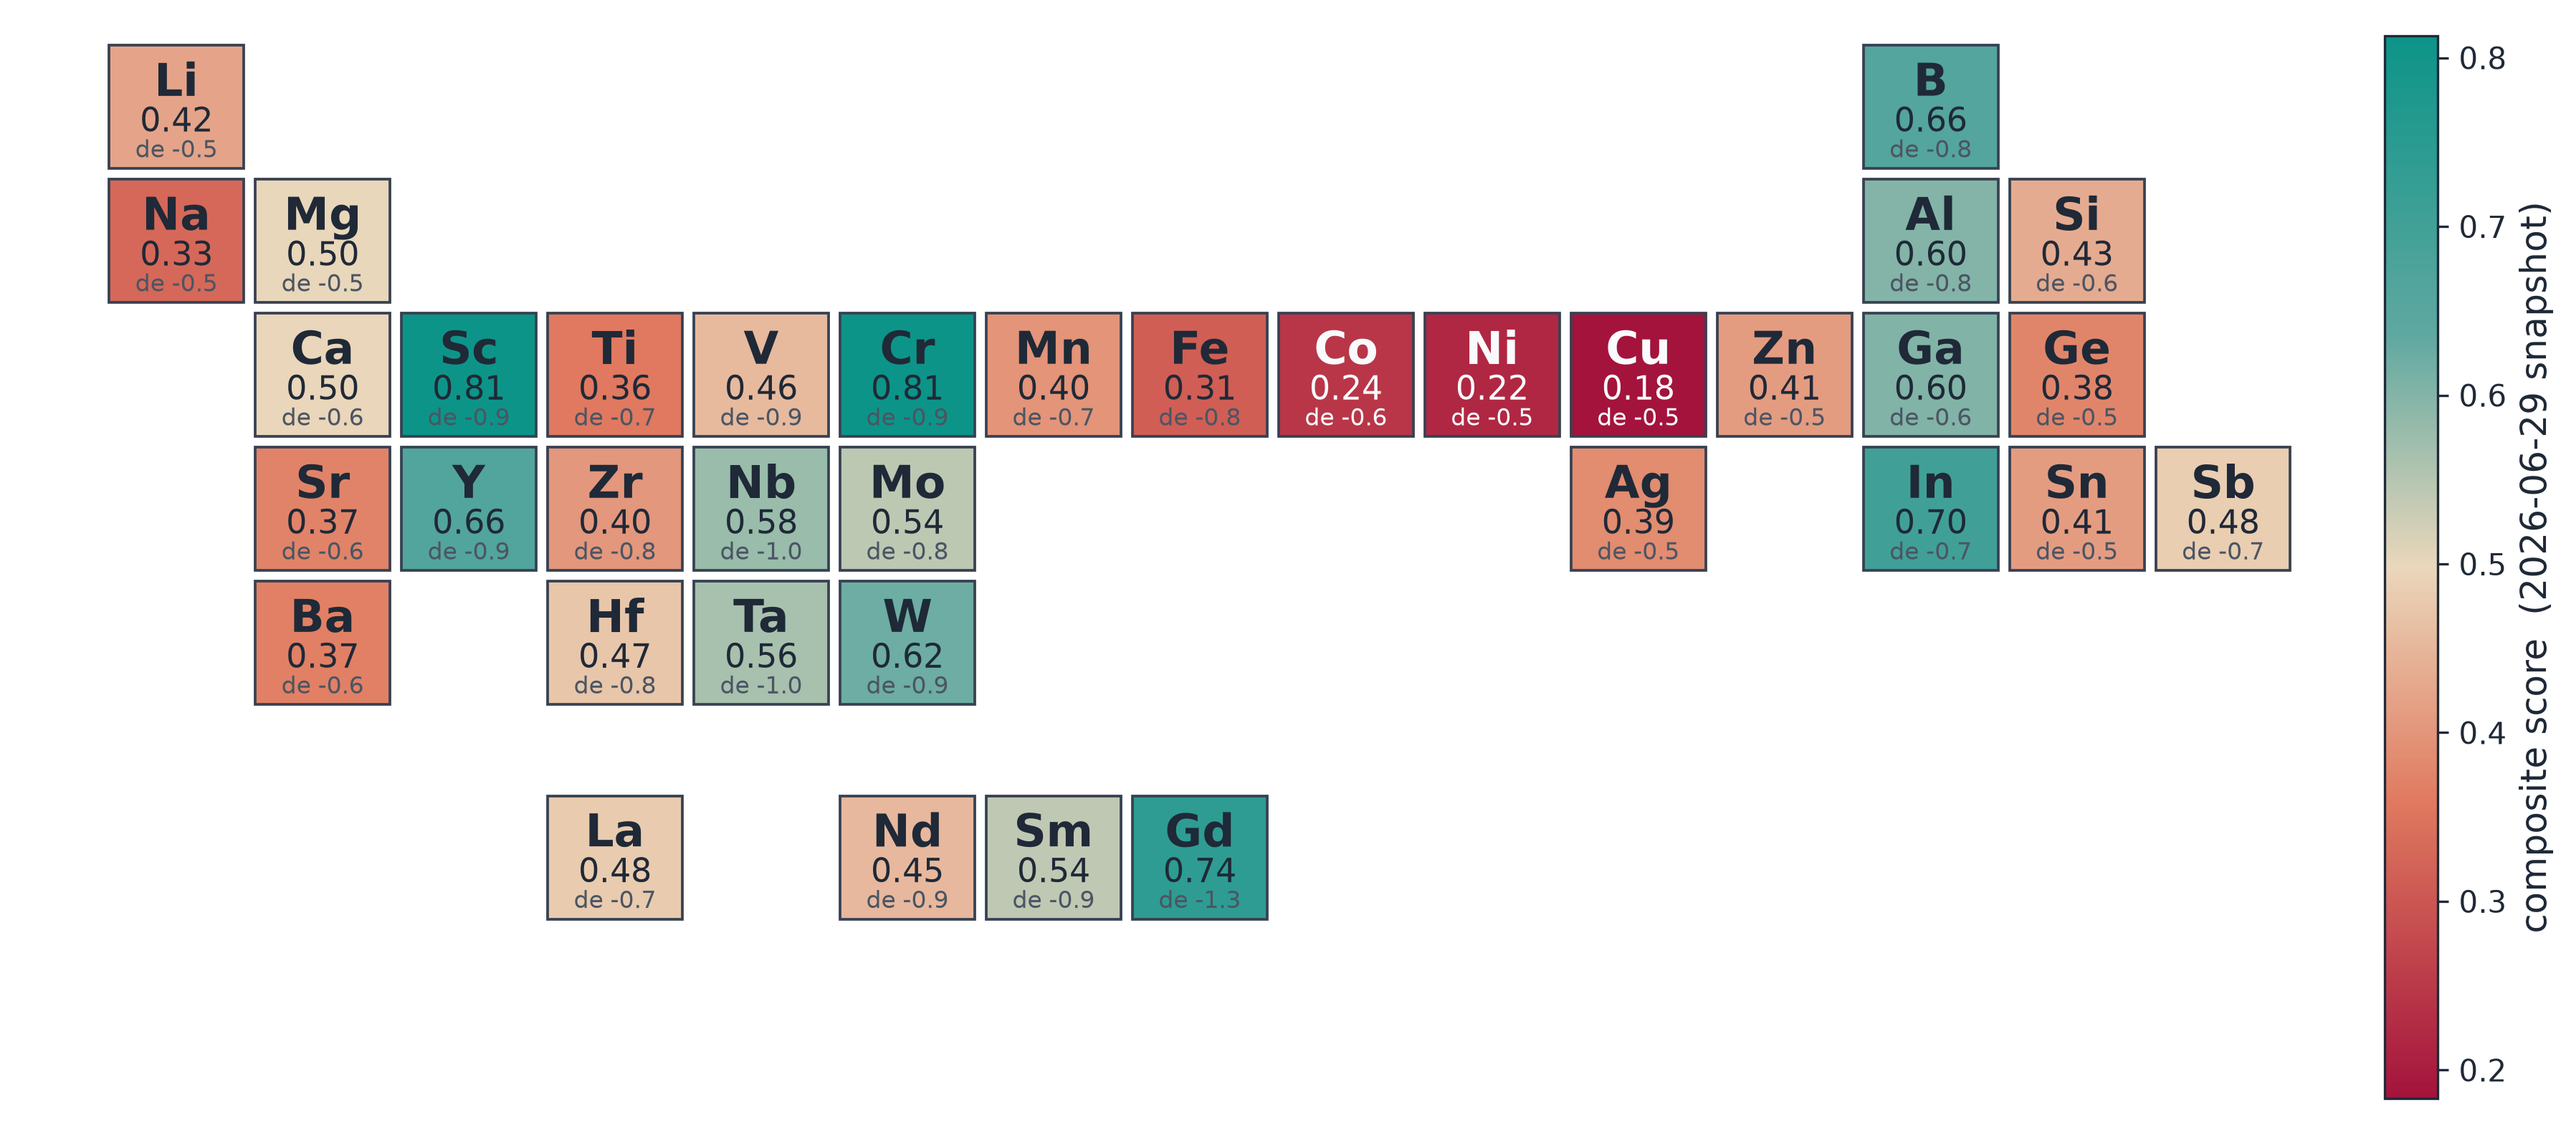
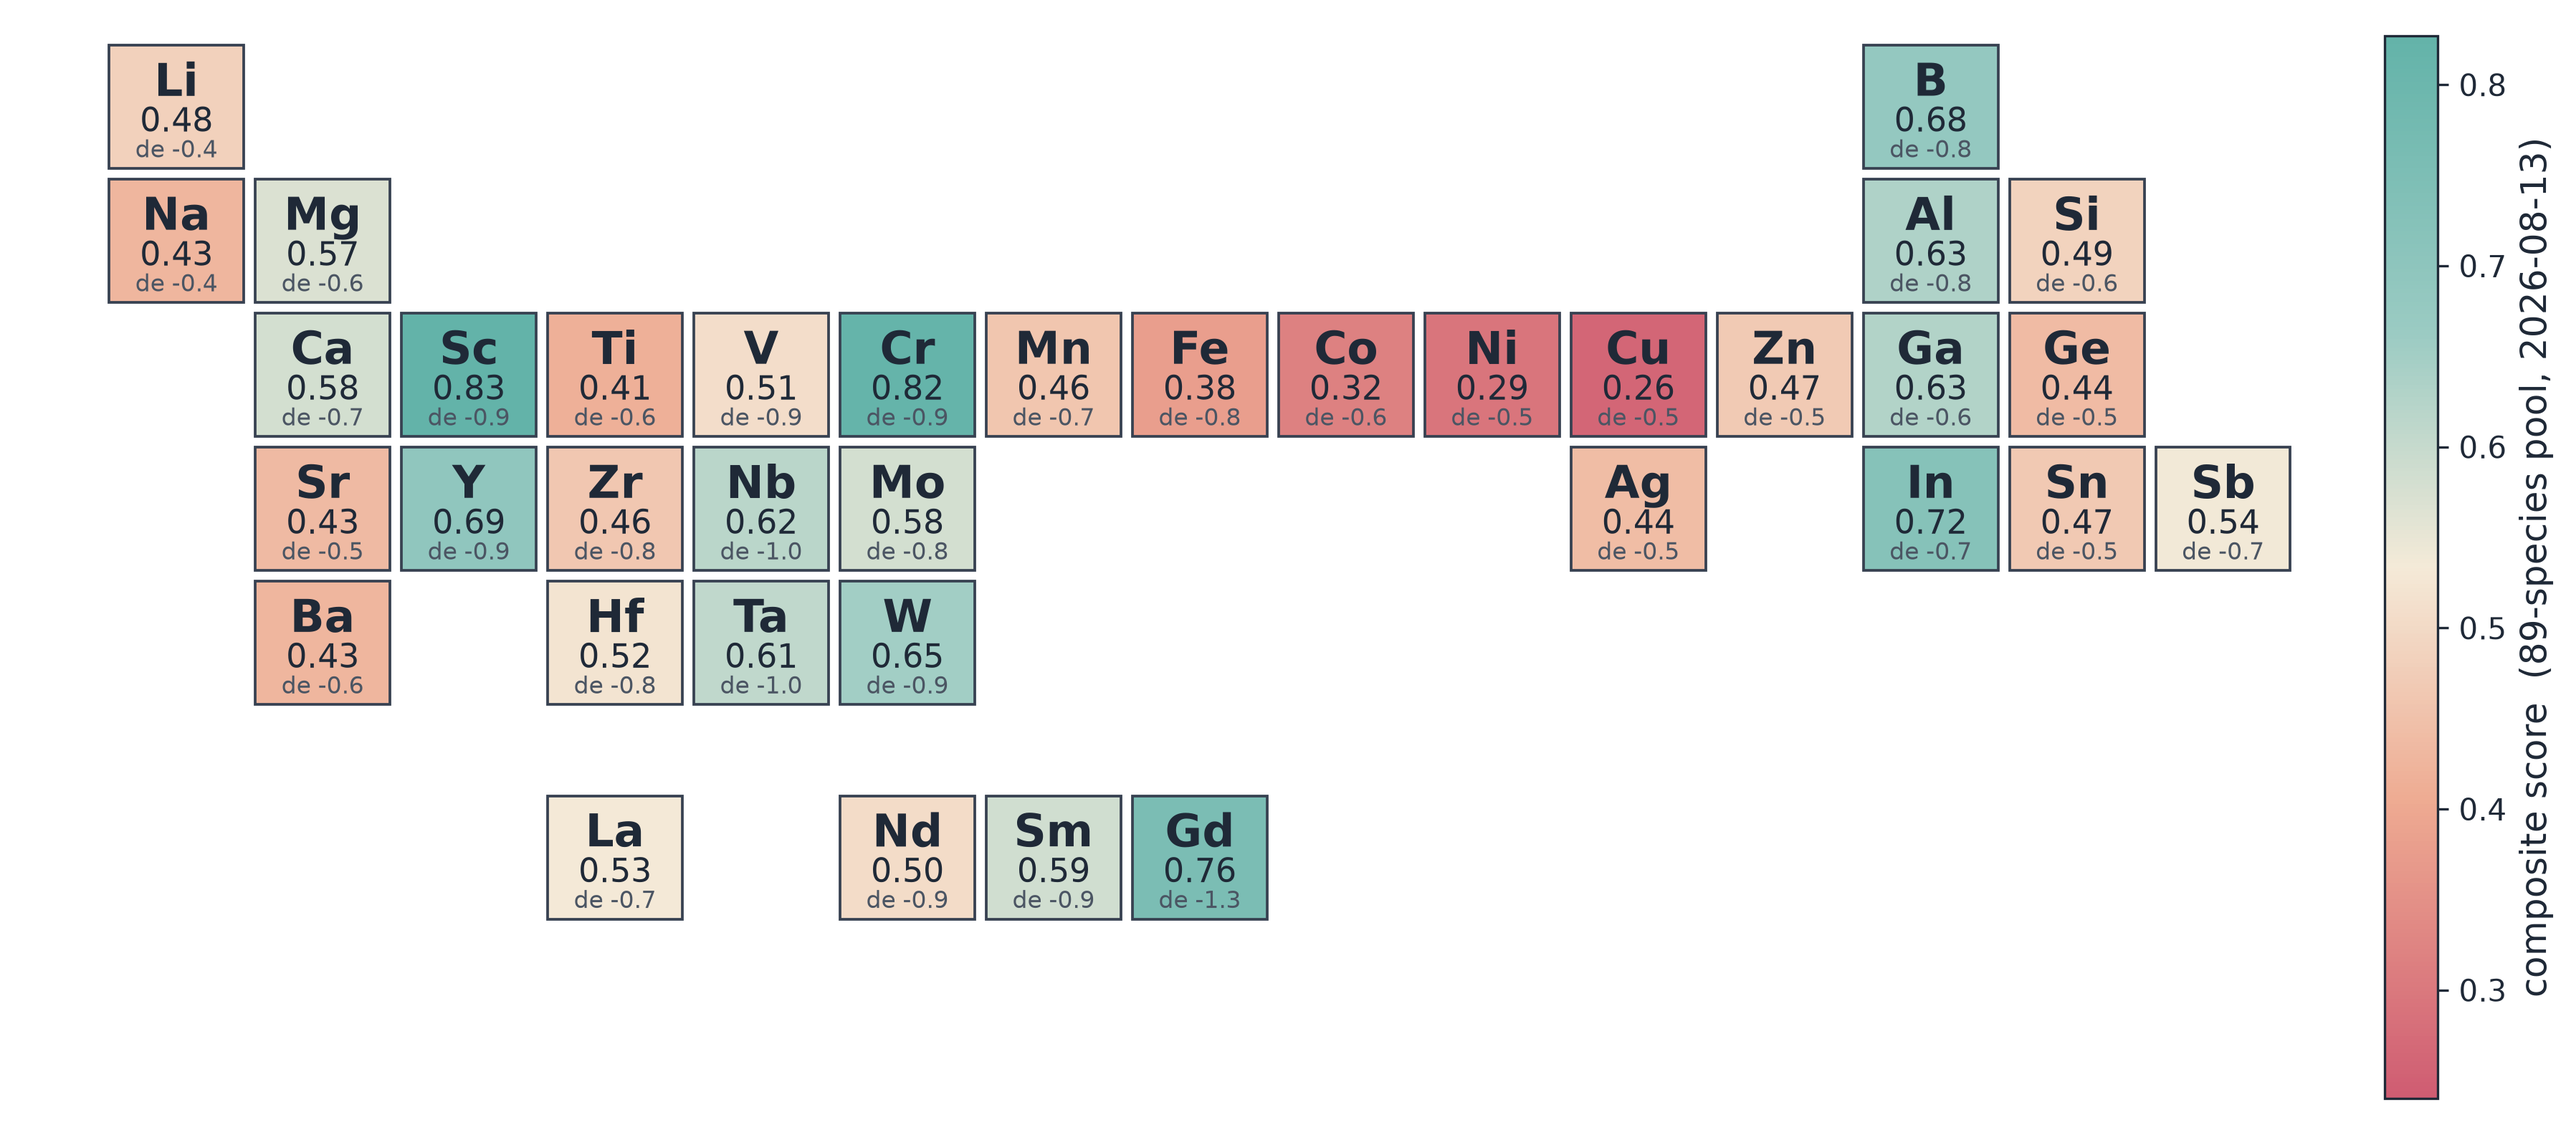
figures+seminar: 주기율표를 89종 풀로 교체 + 팔레트 연하게
풀 교체 근거는 '패턴이 안 바뀐다'는 실측이다:
  원소 36개 동일 · 상위10 집합 동일 · 최하위10 집합 동일
  Mn Fe Co Ni Cu 가 두 풀 모두 최하위12 (대본이 'red' 라 부르는 블록)
  점수는 평균 +0.050 오르지만 순위 변화가 아니라 min-max 모집단 확대에 따른 수평 이동
v2 는 v1 의 완전한 상위집합(v1 전용 종 0, +42종).
AlI3 는 두 풀 모두 없다 - v2 만의 결함이 아니라 캠페인 공백.

- fig_periodic(pool=) 신설, 기본 v2. v1 은 대조용으로 계속 그릴 수 있다
- selftest +5: 두 풀의 원소집합/최하위10/후기전이금속 블록 일치를 검사한다.
  깨지면 'read the block pattern, not the order' 캡션이 거짓이 되므로 그림보다 먼저 막는다
- 팔레트를 한 단계 연하게 (1저자 요청) - 채도가 내려가 모든 칸에서 INK 가 읽힌다
- 대본 8장: 캡션을 89종/2026-08-13 으로, '승인된 순위 없음' 은 유지.
  질문 대비 말로만 항목 추가 (풀 두 배로 늘려도 상하위 집합 그대로)

Claude-Session: https://claude.ai/code/session_01L44TWYrHkcm4PH5ihWSSCw

diff --git a/tools/figures/plot_seminar_2026_08.py b/tools/figures/plot_seminar_2026_08.py
@@ -93,19 +93,36 @@ GROUP_OF = {"Li":"alkali","Na":"alkali","Ag":"TM","Mg":"alk.earth","Ca":"alk.ear
             "La":"lanthanide","Nd":"lanthanide","Sm":"lanthanide","Gd":"lanthanide"}
 
 
-def fig_periodic():
+#: 점수 풀 — (csv, 컬러바 라벨). v2 가 기본이다 (2026-08-18).
+POOLS = {
+    "v2": ("cascade_v23_ranked_v2.csv", "composite score  (89-species pool, 2026-08-13)"),
+    "v1": ("cascade_v23_ranked.csv", "composite score  (47-species pool, 2026-06-29)"),
+}
+
+
+def fig_periodic(pool="v2"):
     """주기율표 성능 지도 — 원본(plot_cascade_summary.py) 양식을 발표용으로 다시 그린다.
 
-    ⚠ 색·숫자는 **2026-06-29 취합 스냅샷의 composite score** 다. 승인된 current ranking 은
-      0종이므로 순위로 인용하면 안 된다 — 슬라이드 캡션이 그 단서를 진다.
+    ⚠ **순위로 인용하면 안 된다.** 승인된 current ranking 은 0종이다 (감사표
+      db/properties/cascade_audit_artifact_status.csv: v1=superseded,
+      v2=recovered_diagnostic). 슬라이드 캡션이 그 단서를 진다.
+
+    풀 선택 (2026-08-18)
+      기본을 **v2(89종)** 로 바꿨다. v2 는 v1 의 **완전한 상위집합**이고(v1 전용 종 0),
+      원소 36개가 같으며, 두 풀의 블록 패턴이 일치한다 — selftest 가 그걸 검사한다.
+      v1 대비 점수가 평균 +0.050 오르는데, 이는 순위 변화가 아니라 min-max 정규화
+      모집단이 커진 데 따른 **수평 이동**이다.
+      ⚠ AlI3 는 **두 풀 모두** 없다 — v2 만의 결함이 아니라 캠페인 공백이다.
+
     ⚠ 이 함수의 ax.text 는 **칸 라벨**(원소 기호·숫자)이라 '그림 안 글씨 금지' 규칙의 예외다.
       문장은 넣지 않는다.
     """
+    csv_name, cb_label = POOLS[pool]
     import csv as _csv
     from matplotlib.patches import Rectangle as _R
     import matplotlib.pyplot as _plt
     D = []
-    for r in _read(os.path.join(DB, "cascade_v23_ranked.csv")):
+    for r in _read(os.path.join(DB, csv_name)):
         try:
             D.append(dict(dop=r["dopant"], comp=float(r["score"]),
                           de=float(r["de"]) if r.get("de") else 0.0))
@@ -148,10 +165,12 @@ def fig_periodic():
     ax.set_xlim(0.4, 16.4); ax.set_ylim(-8.05, 0.10); ax.axis("off")
     sm = _plt.cm.ScalarMappable(cmap=cmap, norm=_plt.Normalize(lo, hi))
     cb = fig.colorbar(sm, ax=ax, fraction=0.022, pad=0.01)
-    cb.set_label("composite score  (2026-06-29 snapshot)", fontsize=12)
+    cb.set_label(cb_label, fontsize=12)
     cb.ax.tick_params(labelsize=10)
     # ⚠ 파일명에 **빌드 날짜**를 박되 컬러바 라벨은 **데이터 날짜**를 유지한다.
     #   둘은 다른 것이고, 섞으면 6월 점수가 8월 결과로 읽힌다 (오늘 β 0.77 사고와 같은 종류).
+    if pool != "v2":
+        return _save(fig, f"roster_periodic_table_pool_{pool}.png")
     _save(fig, "roster_periodic_table_build_2026-08-18.png")
     return _save(fig, "roster_periodic_table.png")
 
@@ -438,6 +457,39 @@ def selftest():
     chk(f"음성: 원본 데이터 결측 0건 ({miss})", not miss)
     # 음성 ④ — 주기율표에 없는 원소를 그리려 하면 안 된다
     chk("음성: PT 좌표 중복 없음", len(set(PT.values())) == len(PT))
+    # ★ 슬라이드가 기대는 주장 — "풀을 두 배로 키워도 **블록 패턴**은 안 바뀐다".
+    #   캡션이 "read the block pattern, not the order" 라고 말하는 근거가 이것이다.
+    #   풀을 바꿨는데 이게 깨지면 그 캡션이 거짓말이 되므로 여기서 막는다 (2026-08-18).
+    import csv as _c, io as _io, re as _re
+    _AN = {"O", "S", "F", "Cl", "Br", "I", "N"}
+
+    def _best(fn):
+        try:
+            _rows = [l for l in open(os.path.join(DB, fn)) if not l.startswith("#")]
+        except OSError:
+            return {}
+        b = {}
+        for x in _c.DictReader(_io.StringIO("".join(_rows))):
+            try:
+                sc = float(x["score"])
+            except (KeyError, ValueError):
+                continue
+            for el in _re.findall(r"[A-Z][a-z]?", base_species(x["dopant"])):
+                if el not in _AN and (el not in b or sc > b[el]):
+                    b[el] = sc
+        return b
+
+    _b1, _b2 = _best(POOLS["v1"][0]), _best(POOLS["v2"][0])
+    chk("두 풀의 원소 집합이 같다", bool(_b1) and set(_b1) == set(_b2))
+    _lo1 = set(sorted(_b1, key=lambda k: _b1[k])[:10])
+    _lo2 = set(sorted(_b2, key=lambda k: _b2[k])[:10])
+    chk(f"두 풀의 최하위10 집합이 같다 (차이 {sorted(_lo1 ^ _lo2)})", _lo1 == _lo2)
+    _late = {"Mn", "Fe", "Co", "Ni", "Cu"}
+    chk("후기전이금속 5종이 두 풀 모두 최하위12 안에 있다 (대본이 'red' 라고 부르는 블록)",
+        all(_late <= set(sorted(b, key=lambda k: b[k])[:12]) for b in (_b1, _b2)))
+    # 음성 — 풀 정의가 비거나 같은 파일을 가리키면 비교가 무의미하다
+    chk("음성: 두 풀이 서로 다른 파일이다", POOLS["v1"][0] != POOLS["v2"][0])
+    chk("음성: v2 가 v1 의 상위집합이다 (v1 전용 원소 0)", not (set(_b1) - set(_b2)))
     # 음성 ⑤ — 화학군 색이 전부 정의돼야 한다
     chk("음성: GROUP_OF 값이 전부 GROUP_C 에 있다",
         set(GROUP_OF.values()) <= set(GROUP_C))

diff --git a/tools/figures/house_style.py b/tools/figures/house_style.py
@@ -77,12 +77,15 @@ def gap_band(ax, vbm=0.0, cbm=None, gap=None, label=True, y=None, fontsize=12):
 #   ③ 양 끝이 house 색과 무관했다. crimson(#be123c)·teal(#0d9488) 로 맞춘다.
 #  ⚠ 낮은 쪽은 **빨강을 유지**한다 — 대본이 "late transition metals sit together
 #    in red" 라고 말한다. 색을 바꾸면 대본이 깨진다.
+#  ⚠ 2026-08-18 2판 — 1저자 요청으로 **전체를 한 단계 연하게**. 채도를 낮추니
+#    모든 칸에서 INK 가 읽혀 흰 글씨가 사라졌다(on_fill 이 알아서 처리한다).
+#    낮은 쪽은 여전히 붉게 읽혀야 하므로 색상(hue)은 유지하고 명도만 올렸다.
 _SCORE_STOPS = [
-    (0.00, "#a4133c"),   # deep crimson — 낮은 점수
-    (0.28, "#e07a5f"),   # terracotta
-    (0.50, "#ead7bb"),   # warm sand (중립)
-    (0.72, "#5fa8a0"),
-    (1.00, "#0d9488"),   # teal — 높은 점수
+    (0.00, "#cf5c72"),   # soft crimson — 낮은 점수 (여전히 '빨간 블록')
+    (0.28, "#eeab92"),   # pale terracotta
+    (0.50, "#f4ead8"),   # pale sand (중립)
+    (0.72, "#9bcbc3"),
+    (1.00, "#63b3a9"),   # soft teal — 높은 점수
 ]
 
 
